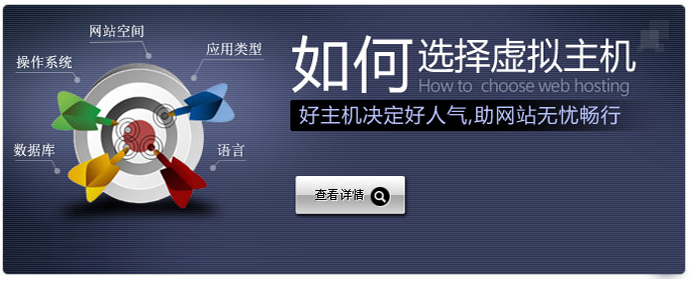
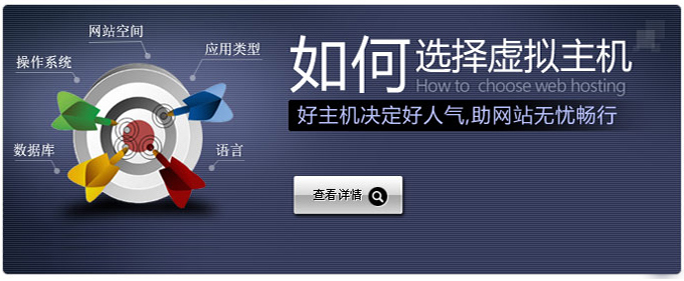
css

diff --git a/user/view/default/public/head.html b/user/view/default/public/head.html
@@ -97,7 +97,7 @@ td {font-family: Arial, Helvetica, sans-serif;font-size: 13px;}
 .right_hg2{height:23px;}
 .right_hg3{height:36px;}
 .right_wid{width:33%}
-.right_wid2{height:281px;width:689px;}
+.right_wid2{height:281px;width:686px;}
 .wid_menu{width:960px;}
 .wid_menu_vh{width:750px;}
 .host_wid{width:190px;}
@@ -111,8 +111,8 @@ td {font-family: Arial, Helvetica, sans-serif;font-size: 13px;}
 
 /*幻灯片*/
 .picshow { z-index:444; position:relative; background-color:#e4f2fa; width: 100%; height: 221px}
-.picshow_main {	position: relative; width: 687px; height: 281px}
-.picshow_main .imgbig { width: 687px; height: 281px}
+.picshow_main {	position: relative; width: 681px; height: 281px}
+.picshow_main .imgbig { width: 681px; height: 281px}
 .picshow_change {position: absolute; text-align: left; bottom: -5px; height: 35px; right: 0px; left: 560px;}
 .picshow_change img {width:20px; height: 15px}
 .picshow_change a {	border: 1px solid; display: block; float: left; margin-right: 5px;  display: inline}

diff --git a/user/view/default/public/index.html b/user/view/default/public/index.html
@@ -4,7 +4,7 @@
 		 	  	<!--幻灯片开始-->
 			<div class="right_main">
 				<div class="left_box right_top right_wid2">
-					<table border="0" cellpadding="0" cellspacing="0" width="260">
+					<table border="0" cellpadding="0" cellspacing="0">
 						<tr>
 							<td valign="top">
 								<div class="picshow_main" style="z-index:10">
